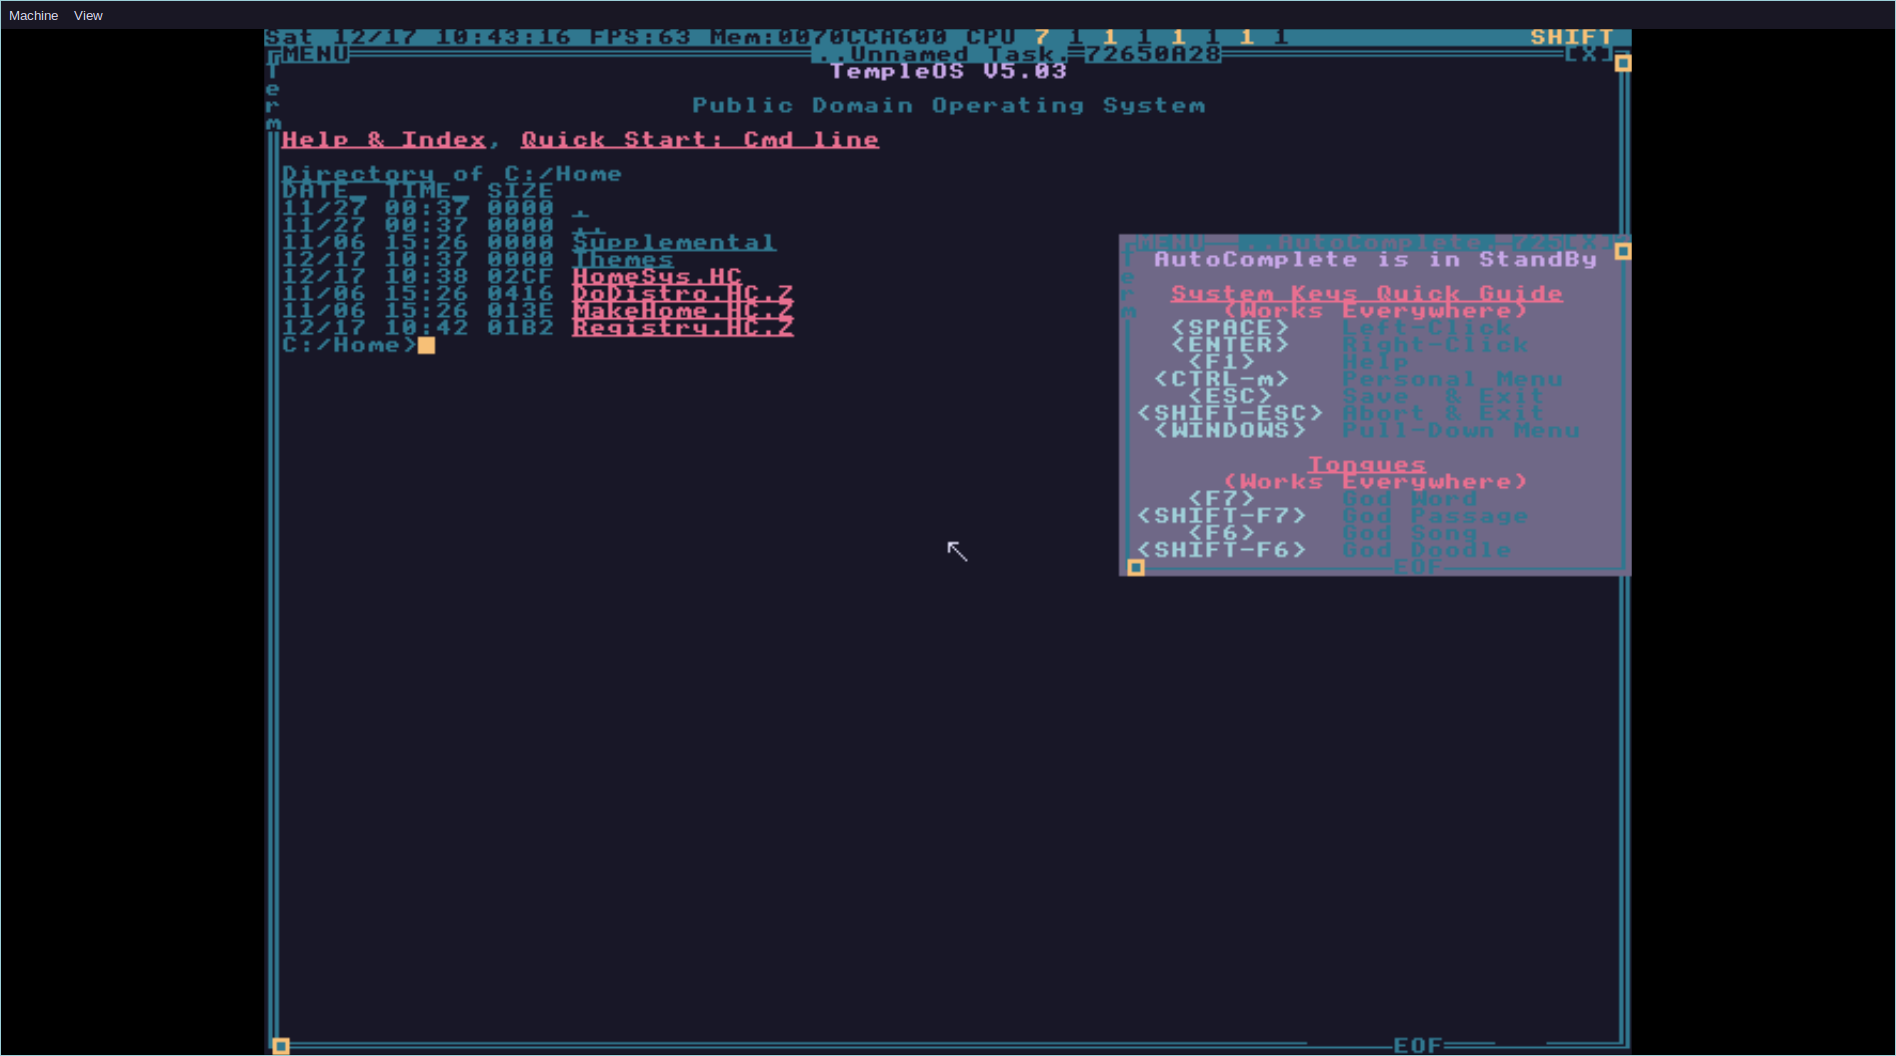
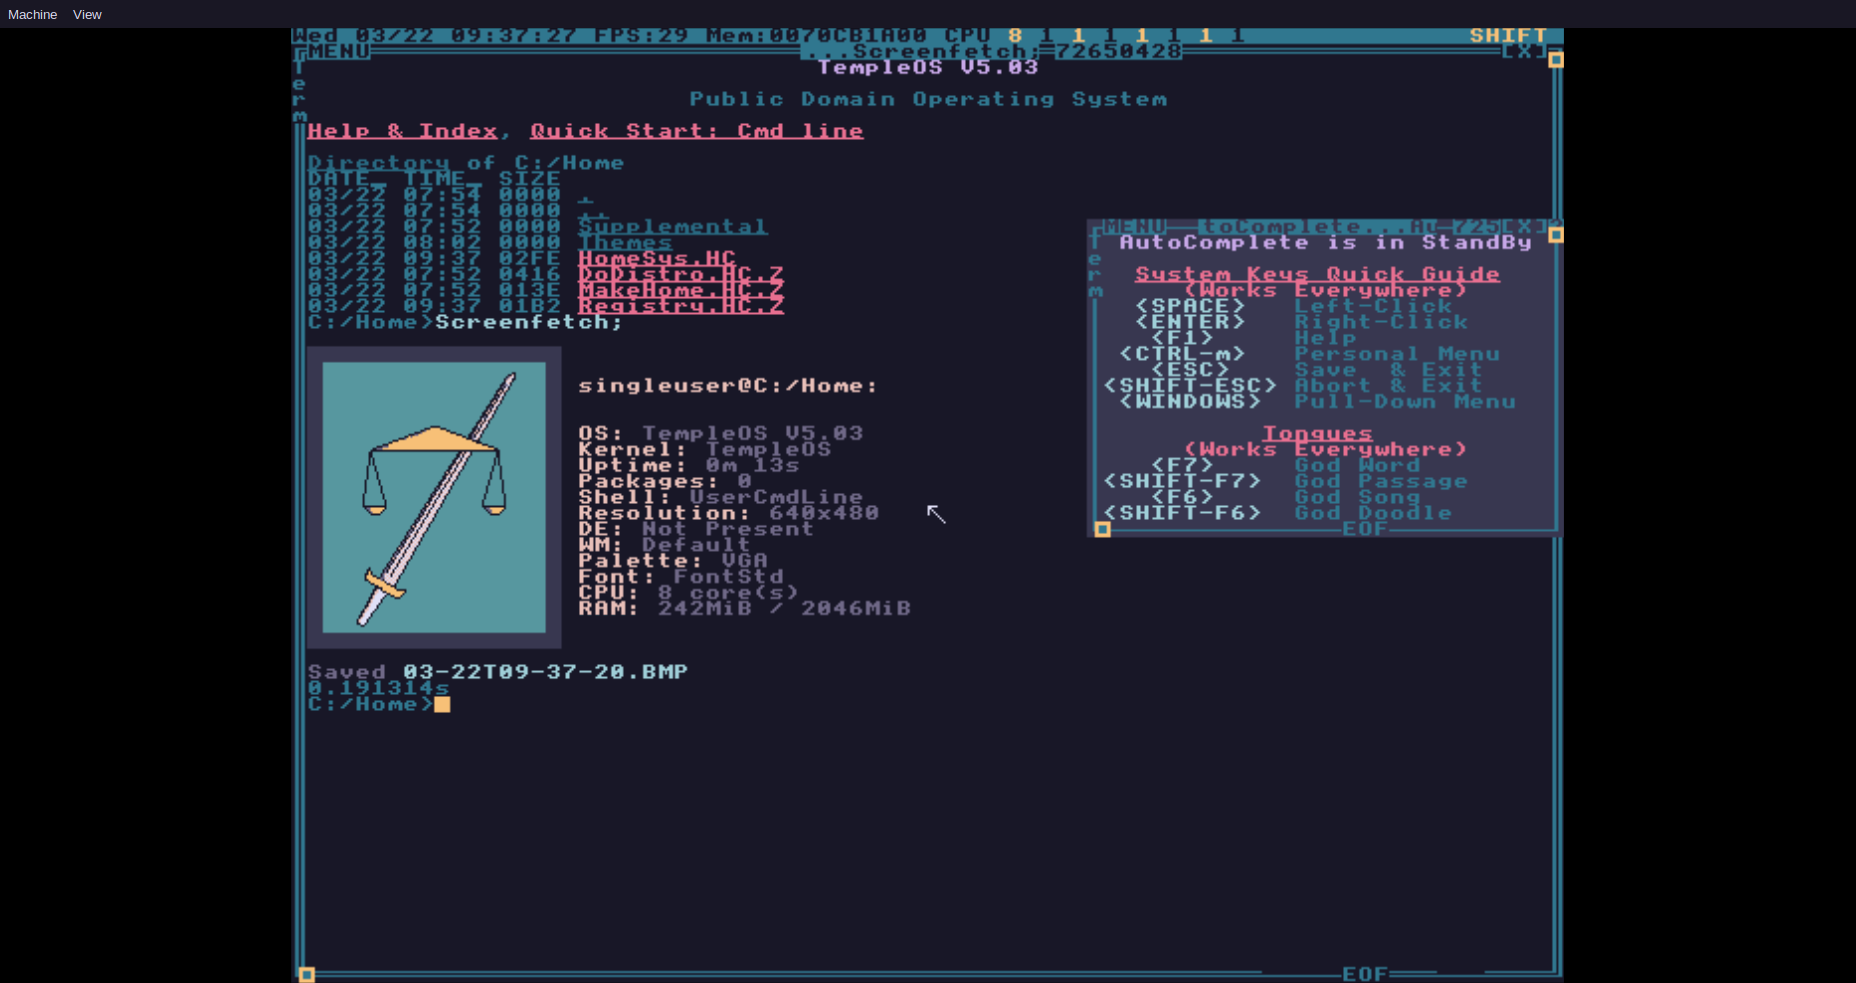
better rosé pine scrot, change readme scrot again

Changed region(s): [[0.125, 0.0, 0.875, 1.0], [0.4375, 0.6104, 0.5, 0.6409], [0.0, 0.0, 0.0625, 0.0305]]

diff --git a/README.md b/README.md
@@ -7,9 +7,9 @@
 All documents and files contained in this repository are for educational purposes only.
 Theme contributions and alternative Windows-specific script contributions are welcomed.*
 
-![](screenshots/catmocha-screenfetch.png)
+![](screenshots/rose-pine.png)
 
-*catppuccin-mocha theme shown; Screenfetch app must be installed separately (see [Additional Software](#additional-software))*
+*rosé pine theme shown; Screenfetch app must be installed separately (see [Additional Software](#additional-software))*
 
 
 
